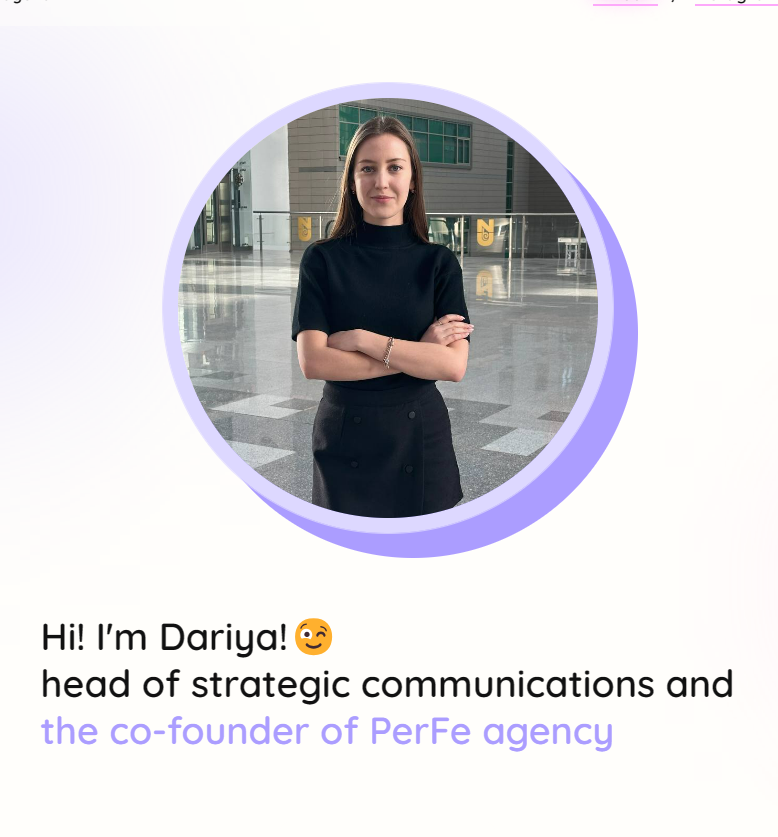
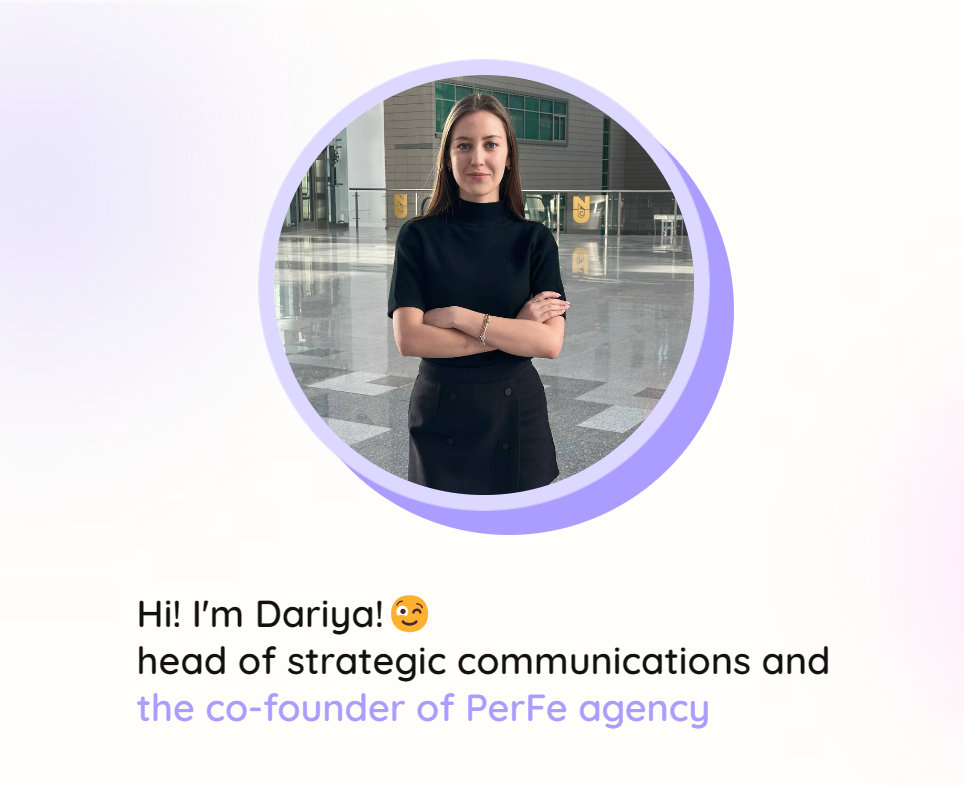
fixed some bugs and made minor changes

diff --git a/src/assets/css/style.scss b/src/assets/css/style.scss
@@ -85,7 +85,7 @@ button {
         
         object-fit: contain;
         top: -80%;
-        right:0;
+        left: 5%;
     }
 }
 
@@ -95,6 +95,9 @@ button {
 
     @media (max-width: 1600px) {
         width: 90vw;
+    }
+    @media ( max-width: 370px ) {
+        width: 98vw;
     }
 }
 
@@ -178,6 +181,14 @@ nav {
         li {all: unset;}
     }
 
+    @media (max-width: 1000px) {
+        .links {
+            li:nth-child(1) {
+                display:none;
+            }
+        }
+    }
+
     @media (max-width: 800px){
         justify-content: center;
         span {
@@ -187,7 +198,7 @@ nav {
     }
     @media (max-width: 653px) {
         .links {
-            li:nth-child(1) {
+            li:nth-child(5) {
                 display:none;
             }
         }
@@ -555,10 +566,13 @@ nav {
     width: 20em;
     height: 20em;
 
+    box-shadow: 4px 4px 10px 0 lighten($accent_color2, 30%);
+    border-radius:30px;
+
     .image {
         border-radius: 30px;
         overflow: hidden;
-        border: solid $accent_color1 1px;
+        border: solid $accent_color1 4px;
     }
     
     img {
@@ -593,9 +607,14 @@ nav {
     display: flex;
     flex-direction: column;
     align-items: center;
-    gap: 10em;
     justify-content: center;
     position: relative;
+
+    h1 { margin-bottom: 2em; }
+
+    > *:not(h1) {
+        margin-bottom: 8em;
+    }
     
     &::before {
         content: "";
@@ -635,9 +654,12 @@ nav {
     @media (max-width: 1000px) {
         margin: 2em 0;
         gap: 2em;
+        h1 { margin-bottom: 0; }
+        > *:not(h1) { margin-bottom: 0; }
+        
         .projectWrapper {
             grid-template-columns: 1fr;
-            grid-template-rows: 1fr 1fr;
+            grid-template-rows: 1fr 1.2fr;
             gap: 4em;
 
             .description {
@@ -647,9 +669,9 @@ nav {
         }
     }
     @media (max-width: 600px) {
-        gap: 1em;
+        gap: 2em;
         .projectWrapper {
-            .description {width: 90%;}
+            .description {width: 80%;}
         }
     }
 }

diff --git a/src/components/Projects.tsx b/src/components/Projects.tsx
@@ -65,7 +65,7 @@ function Projects() {
 
                 <div className="projectWrapper" ref={ref2}>
                     <div className="description leftImage">
-                        This portfolio, showcasing the skills and projects of Nurbek Malikov, a backend developer, was diligently put together by our team. We aimed to highlight his experience and creativity in web development, providing a comprehensive view of his professional journey.
+                        This portfolio, showcasing the <span>skills and projects</span> of Nurbek Malikov, a backend developer, was diligently put together by our team. We aimed to highlight his <span>experience and creativity</span> in web development, providing a comprehensive view of his <span>professional journey</span>.
                     </div>
                     <div className="rightImage">
                         <GalleryItem 
@@ -85,7 +85,7 @@ function Projects() {
                         />
                     </div>
                     <div className="description rightImage">
-                        This portfolio was meticulously crafted for Dariya Dalabayeva by our dedicated team, showcasing her extensive experience and achievements in strategic communications and public relations. Our aim was to highlight her passion, skills, and contributions in a concise and engaging manner.
+                        This portfolio was meticulously crafted for Dariya Dalabayeva by our dedicated team, <span>showcasing her extensive experience and achievements</span> in strategic communications and public relations. Our aim was to highlight her <span>passion, skills, and contributions</span> in a concise and engaging manner.
                     </div>
                 </div>
                 

diff --git a/src/components/Footer.tsx b/src/components/Footer.tsx
@@ -17,6 +17,7 @@ function Footer() {
           <div className="inputWrapper">
             <input type="tel" name="phone" id="tel" placeholder="+7 777 777 7777"/>
           </div>
+          <button style={{marginTop: '3em', width: 'fit-content'}}>Send it!</button>
         </div>
         <div className="rightColumn">
           <h1></h1>
